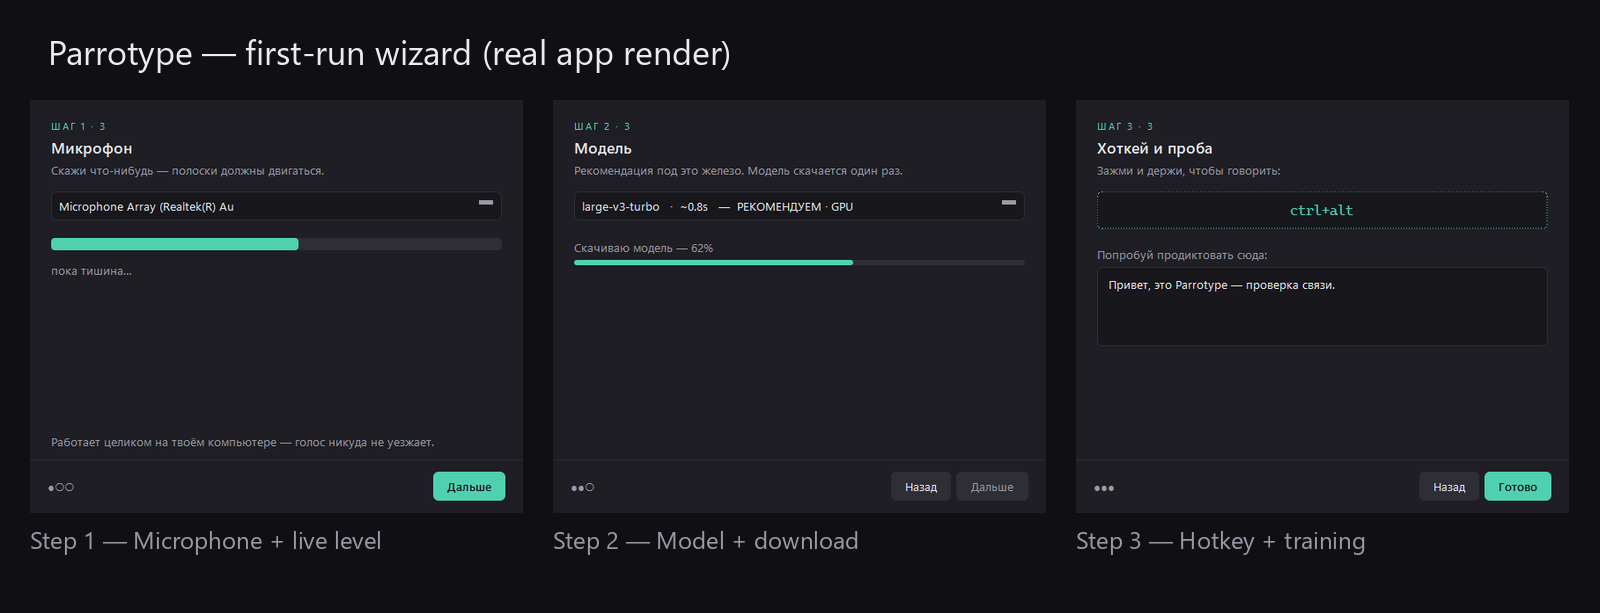
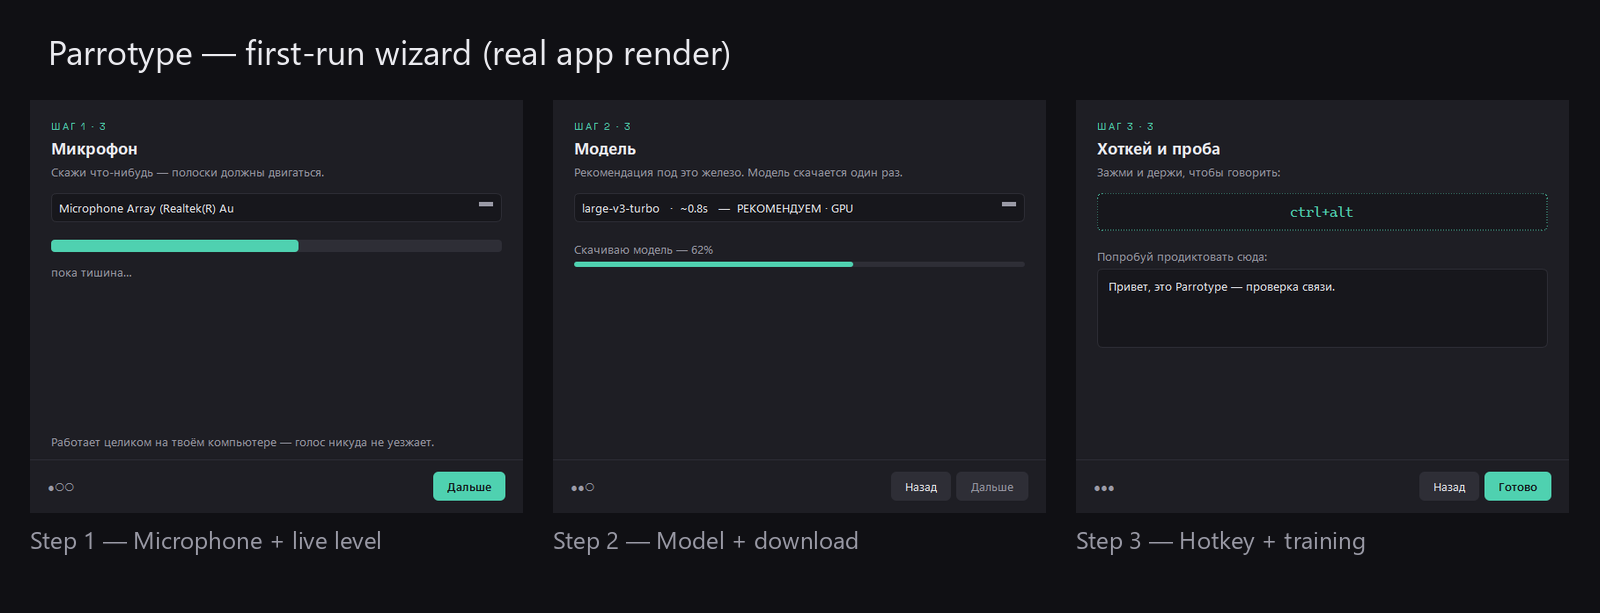
brand(type): Space Grotesk for headings/wordmark/kickers (owner variant C)
- Space Grotesk (OFL 1.1) bundled at assets/fonts + registered via
  QFontDatabase at startup (theme.load_fonts); full OFL text ships with
  the app and is referenced in LICENSES.md
- applied through the QSS layer: About wordmark (#wordmark), wizard
  step titles (#steptitle) and 'STEP n' kickers (#stepno); font chain
  'Space Grotesk' -> 'Segoe UI Variable' -> 'Segoe UI' — RU headings
  intentionally fall back to Segoe (no Cyrillic in Space Grotesk; owner
  saw and accepted this on the comparison collage). Body, inputs,
  buttons stay Segoe; mono unchanged
- design kit: tokens typography section leads with the heading font
  (incl. the Cyrillic-fallback note), logo wordmark switched; the font
  is embedded base64 in both cards so previews stay self-contained
- collages re-rendered (pill/settings/wizard/menu); dist +
  ParrotypeSetup.exe rebuilt with the bundled font, packaged smoke PASS

diff --git a/shells/tray/theme.py b/shells/tray/theme.py
@@ -16,6 +16,24 @@ REC = "#FF5C5C"              # recording dot only
 FONT_UI = "Segoe UI Variable"
 FONT_UI_FALLBACK = "Segoe UI"
 FONT_MONO = "Cascadia Mono"
+# Headings/wordmark/kickers — owner-approved variant C. Space Grotesk has
+# no Cyrillic: RU headings intentionally fall back to Segoe (seen and
+# accepted on the comparison collage).
+FONT_HEADING = "Space Grotesk"
+FONT_HEADING_CHAIN = f'"{FONT_HEADING}", "{FONT_UI}", "{FONT_UI_FALLBACK}"'
+
+
+def load_fonts() -> None:
+    """Register bundled fonts (assets/fonts) — call once after QApplication."""
+    from pathlib import Path
+
+    from PySide6.QtGui import QFontDatabase
+
+    fonts_dir = Path(__file__).resolve().parents[2] / "assets" / "fonts"
+    if not fonts_dir.is_dir():
+        return
+    for ttf in fonts_dir.glob("*.ttf"):
+        QFontDatabase.addApplicationFont(str(ttf))
 
 # Geometry
 PILL_HEIGHT = 44
@@ -131,4 +149,9 @@ def app_qss() -> str:
         background: {SURFACE}; color: {TEXT}; border: 1px solid {LINE};
         padding: 5px 8px; border-radius: 5px;
     }}
+
+    /* headings: Space Grotesk (owner-approved variant C); body stays Segoe */
+    QLabel#steptitle {{ font-family: {FONT_HEADING_CHAIN}; font-size: 18px; font-weight: 700; }}
+    QLabel#stepno {{ font-family: {FONT_HEADING_CHAIN}; }}
+    QLabel#wordmark {{ font-family: {FONT_HEADING_CHAIN}; font-size: 26px; font-weight: 700; }}
     """

diff --git a/shells/tray/wizard.py b/shells/tray/wizard.py
@@ -91,8 +91,14 @@ class FirstRunWizard(QDialog):
             f"""
             QDialog {{ background: {theme.SURFACE}; }}
             QWidget#wizfooter {{ border-top: 1px solid {theme.LINE}; }}
-            QLabel#stepno {{ color: {theme.ACCENT}; font-size: 11px; letter-spacing: 2px; }}
-            QLabel#steptitle {{ font-size: 17px; font-weight: 600; }}
+            QLabel#stepno {{
+                color: {theme.ACCENT}; font-size: 11px; letter-spacing: 2px;
+                font-family: {theme.FONT_HEADING_CHAIN};
+            }}
+            QLabel#steptitle {{
+                font-size: 18px; font-weight: 700;
+                font-family: {theme.FONT_HEADING_CHAIN};
+            }}
             QLabel#muted {{ color: {theme.MUTED}; }}
             QLabel#okline {{ color: {theme.ACCENT}; }}
             """

diff --git a/shells/tray/settings.py b/shells/tray/settings.py
@@ -14,7 +14,7 @@ import time
 from pathlib import Path
 
 from PySide6.QtCore import Qt, QTimer, Signal
-from PySide6.QtGui import QColor, QFont, QPainter
+from PySide6.QtGui import QColor, QPainter
 from PySide6.QtWidgets import (
     QAbstractItemView,
     QApplication,
@@ -369,9 +369,7 @@ class SettingsDialog(QDialog):
             f'<span style="color:{theme.TEXT}">Parro</span>'
             f'<span style="color:{theme.ACCENT}">type</span>'
         )
-        font = QFont(theme.FONT_UI, 16)
-        font.setBold(True)
-        title.setFont(font)
+        title.setObjectName("wordmark")   # Space Grotesk via app QSS
         layout.addWidget(title)
 
         slogan = QLabel(tr("set.about_slogan"))

diff --git a/scripts/render_typography_options.py b/scripts/render_typography_options.py
@@ -33,6 +33,7 @@ FONTS = Path(__file__).resolve().parents[1] / "design" / "fonts"
 BG = (16, 16, 20)
 
 _app = QApplication(sys.argv)
+theme.load_fonts()
 _app.setStyleSheet(theme.app_qss())
 set_language("ru")
 

diff --git a/scripts/render_ui_previews.py b/scripts/render_ui_previews.py
@@ -44,6 +44,7 @@ CAPTION = (154, 154, 166)
 TITLE = (236, 236, 241)
 
 _app = QApplication(sys.argv)
+theme.load_fonts()
 _app.setStyleSheet(theme.app_qss())
 set_language("ru")
 

diff --git a/shells/tray/app.py b/shells/tray/app.py
@@ -480,6 +480,7 @@ def main() -> int:
         log.error("System tray is not available")
         return 1
 
+    theme.load_fonts()
     tray_app = TrayApp(app)
     app.setStyleSheet(theme.app_qss())
     tray_app._update_status()

diff --git a/LICENSES.md b/LICENSES.md
@@ -35,6 +35,11 @@ Goal: everything distribution-safe (MIT / Apache / BSD / LGPL-dynamic).
 | pyperclip | 1.11.0 | BSD |
 | pycaw (+comtypes) | 20251023 | MIT |
 
+Bundled font: **Space Grotesk** (headings/wordmark) — SIL Open Font
+License 1.1; full license text ships with the app at
+`assets/fonts/OFL.txt`. OFL permits bundling and commercial
+redistribution with software as long as the license accompanies the font.
+
 Optional (GPU only): nvidia-cublas-cu12, nvidia-cudnn-cu12,
 nvidia-cuda-nvrtc-cu12 — proprietary NVIDIA redistributables.
 